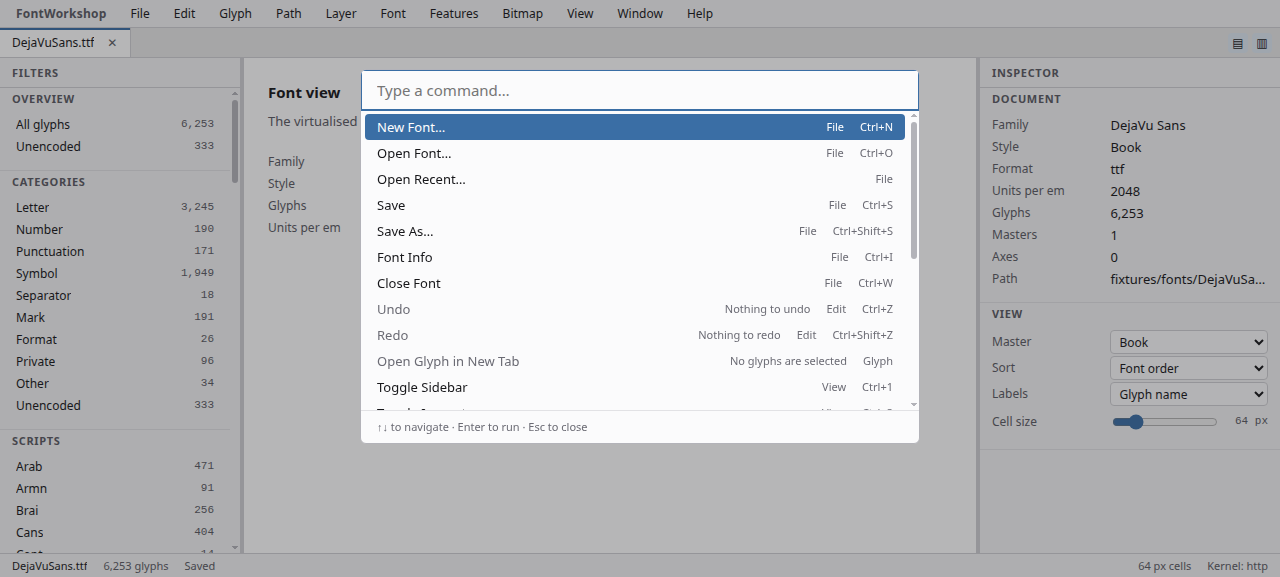
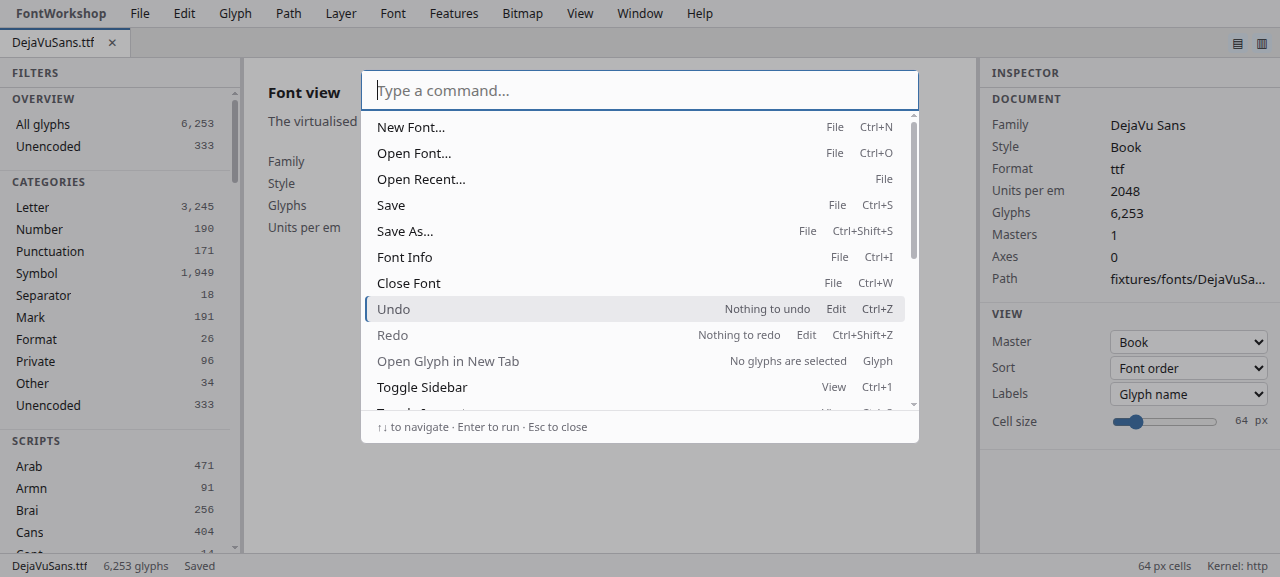
fix(app): readable highlighted disabled rows in palette and menus
A highlighted palette row whose command is unavailable carried both the
accent fill and the faint disabled text colour, leaving its title,
reason and shortcut hint at ~1.01:1 (light) and 1.25:1 (dark).

The four row states are now mutually exclusive, so no cascade order can
pair faint text with the accent fill: a disabled highlighted row gets a
new neutral treatment (surface tint plus a 2 px inset accent bar) with
every span raised from the faint to the muted token, which measures
5.63:1 light and 6.37:1 dark. Enabled highlighted rows keep the accent
fill at 5.31/5.60.

Menu items get the same guarantee structurally: a disabled item forces a
transparent background and the hover/focus fills are gated on
:not(:disabled), so its faint text is always read against the popup
surface (5.10/5.21).

Same defect fixed in Button: a disabled primary button kept the accent
background under opacity 0.7 (visible on the path prompt's Open/Save);
it now drops the variant fill for the neutral surface (4.80/5.81).

Covered by a test that asserts the disabled highlighted row uses the
neutral-highlight class and not the accent-fill class. Ratios measured
from getComputedStyle in the running app in both themes; palette
screenshots refreshed for light and dark.

Changed region(s): [[0.2812, 0.1872, 0.7188, 0.2496]]

diff --git a/app/src/shell/CommandPalette.test.tsx b/app/src/shell/CommandPalette.test.tsx
@@ -5,6 +5,7 @@ import { afterEach, beforeEach, describe, expect, it, vi } from 'vitest'
 import { initialUiState, useUiStore } from '../stores/uiStore'
 
 import { CommandPalette } from './CommandPalette'
+import paletteStyles from './CommandPalette.module.css'
 import { registerCommand, resetCommands } from './commands'
 
 const openFont = vi.fn()
@@ -65,6 +66,23 @@ describe('CommandPalette', () => {
 
     expect(gated).not.toHaveBeenCalled()
     expect(useUiStore.getState().paletteOpen).toBe(true)
+  })
+
+  it('highlights an unavailable row without the unreadable accent fill', async () => {
+    const user = userEvent.setup()
+    render(<CommandPalette />)
+
+    const enabledRow = screen.getByRole('option', { name: /Open Font/ })
+    expect(enabledRow.className).toContain(paletteStyles.paletteItemActive)
+
+    await user.keyboard('{ArrowDown}{ArrowDown}')
+
+    const disabledRow = screen.getByRole('option', { name: /Close Font/ })
+    expect(disabledRow).toHaveAttribute('aria-selected', 'true')
+    expect(disabledRow.className).toContain(paletteStyles.paletteItemHighlight)
+    expect(disabledRow.className).not.toContain(paletteStyles.paletteItemActive)
+    expect(disabledRow.className).not.toContain(paletteStyles.paletteItemDisabled)
+    expect(enabledRow.className).not.toContain(paletteStyles.paletteItemActive)
   })
 
   it('filters by title and runs the highlighted command on Enter', async () => {

diff --git a/app/src/shell/CommandPaletteDialog.tsx b/app/src/shell/CommandPaletteDialog.tsx
@@ -130,9 +130,14 @@ export function CommandPaletteDialog() {
                 !enabled && command.disabledReason
                   ? t(command.disabledReason)
                   : undefined
+              // The four states are mutually exclusive so no cascade order can
+              // put disabled (faint) text on the solid accent fill.
               const classes = [paletteStyles.paletteItem]
-              if (index === active) classes.push(paletteStyles.paletteItemActive)
-              if (!enabled) classes.push(paletteStyles.paletteItemDisabled)
+              if (enabled && index === active)
+                classes.push(paletteStyles.paletteItemActive)
+              else if (!enabled && index === active)
+                classes.push(paletteStyles.paletteItemHighlight)
+              else if (!enabled) classes.push(paletteStyles.paletteItemDisabled)
               return (
                 <li key={command.id}>
                   <button

diff --git a/app/src/shell/CommandPalette.module.css b/app/src/shell/CommandPalette.module.css
@@ -57,6 +57,24 @@
   color: var(--color-text-faint);
 }
 
+/*
+ * A highlighted row whose command is unavailable. The solid accent fill is not
+ * used here: disabled text on it would be unreadable. Instead the row gets a
+ * neutral tint plus an accent bar, and every span switches from the faint to
+ * the muted token, which clears 4.5:1 on this background in both themes.
+ */
+.paletteItemHighlight {
+  background: var(--color-hover);
+  box-shadow: inset 2px 0 0 var(--color-accent);
+  color: var(--color-text-muted);
+}
+
+.paletteItemHighlight .hint,
+.paletteItemHighlight .paletteMenu,
+.paletteItemHighlight .paletteReason {
+  color: var(--color-text-muted);
+}
+
 .paletteLabel {
   overflow: hidden;
   flex: 1;

diff --git a/app/src/components/controls.module.css b/app/src/components/controls.module.css
@@ -25,9 +25,15 @@
   background: var(--color-active);
 }
 
+/*
+ * A disabled button drops its variant fill rather than dimming it: faint text
+ * over the accent (or over a translucent accent) is unreadable. `:disabled`
+ * outranks `.primary`/`.ghost`, so this holds for every variant.
+ */
 .button:disabled {
+  border-color: var(--color-border);
+  background: var(--color-surface);
   color: var(--color-text-faint);
-  opacity: 0.7;
 }
 
 .primary {

diff --git a/app/src/shell/MenuBar.module.css b/app/src/shell/MenuBar.module.css
@@ -77,11 +77,16 @@
 }
 
 .menuItem:hover:not(:disabled),
-.menuItem:focus-visible {
+.menuItem:focus-visible:not(:disabled) {
   background: var(--color-hover);
 }
 
+/*
+ * Unavailable rows stay listed but never take a highlight fill, so their faint
+ * text is always read against the popup surface (>= 4.5:1 in both themes).
+ */
 .menuItem:disabled {
+  background: transparent;
   color: var(--color-text-faint);
 }
 
